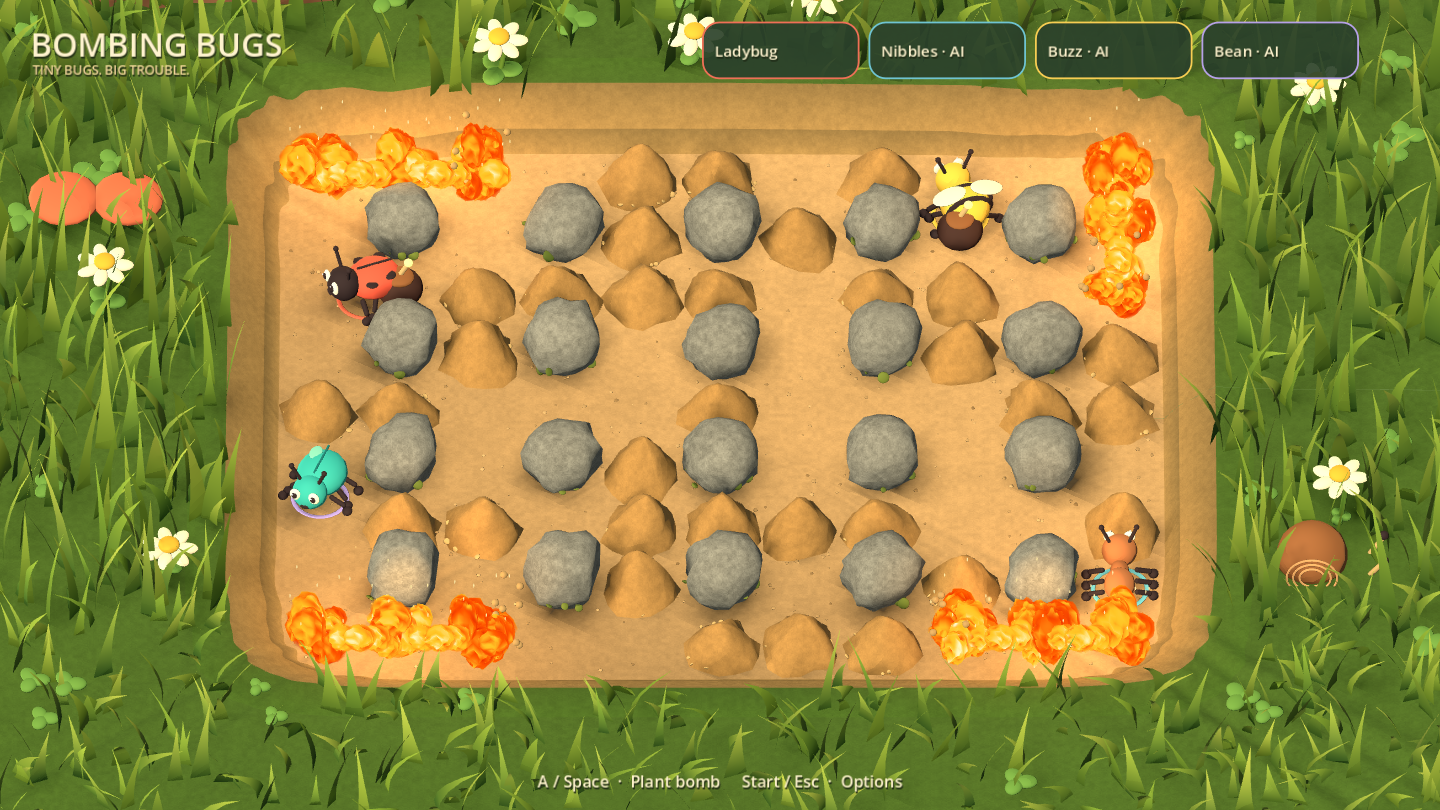
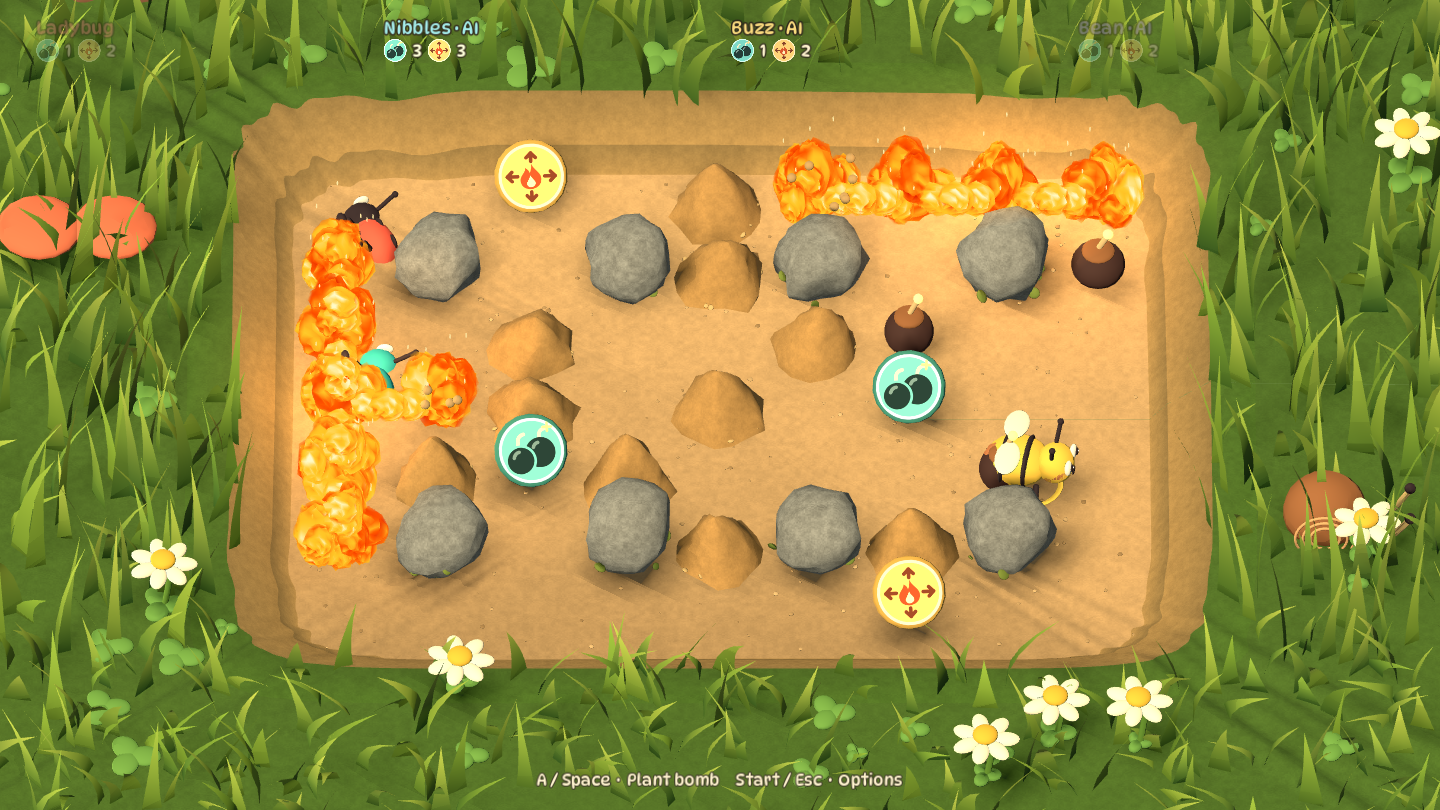
Bombing Bugs: varied gardens and a quieter HUD
Every round can now look different. Garden size follows the player count
(Auto: 11x9 up to 15x13, or pick Small/Medium/Large) and the camera,
sand pit, grass and onlookers scale with it. Two new generated layouts,
Scattered stones and Boulder field, mirror one quarter so every corner spawn
gets the same garden and are rejected unless fully connected; "Surprise me"
(the new default) picks any of the five each round, and the countdown names
it. Small Pebble islands opens its middle row instead of two columns.

The HUD is lighter: the game's name only appears on the start menu, and the
player info is bare outlined text in the player's colour, no cards. Store
clip takes pin --size=Medium so they still reproduce the published clip.

Claude-Session: https://claude.ai/code/session_01A6exjfnhezmQTZHuqiLmSE

diff --git a/bombing-bugs/tests/lifecycle.py b/bombing-bugs/tests/lifecycle.py
@@ -34,7 +34,7 @@ def main():
             assert hello["game"] == "bombing-bugs" and hello["token"] == "isolated-test"
             peer.send(type="welcome", party={})
             settings = peer.expect("declare_settings")["settings"]
-            assert {s["key"] for s in settings} == {"ai_players", "teams", "arena", "friendly_fire", "fuse", "speed", "crates", "pickups", "sound"}
+            assert {s["key"] for s in settings} == {"ai_players", "teams", "arena", "size", "friendly_fire", "fuse", "speed", "crates", "pickups", "sound"}
             peer.send(type="setting_changed", key="ai_players", value=0)
             session = "bugs-test-session"
             seats = [{"index":2,"controller":"pad-seven","occupant":{"kind":"local","player_id":"ada"}},

diff --git a/bombing-bugs/README.md b/bombing-bugs/README.md
@@ -34,6 +34,13 @@ remaining slots up to the requested count, without replacing human players.
 One human with AI set to zero is a practice arena. Options use D-pad/stick,
 A/B, or mouse; settings take effect on **Start a new round** or the next round.
 
+Gardens vary every round. Auto size picks from sizes that suit the player
+count (two players: 11×9 or 13×9; three: 13×11 or 15×9; four: 13×11, 15×11 or
+15×13) and the camera frames each size the same way. Scattered stones and
+Boulder field are generated per round, mirrored so every corner spawn sees the
+same garden, and always fully connected once the sand is gone. The countdown
+names the garden; the game's name only shows on the start menu.
+
 Teams pair seats 1+3 against 2+4. Friendly fire is optional; your own bombs
 always hurt. Eliminated bugs remain as little toppled bodies until next round.
 
@@ -53,7 +60,8 @@ standard host setting API; no game-specific LLM endpoint is necessary:
 | --- | --- | --- |
 | `ai_players` | 0–3, capped at four total players | Next round |
 | `teams` | Free-for-all, Teams | Next round |
-| `arena` | Clover garden, Seed crossroads, Pebble islands | Next round |
+| `arena` | Surprise me (default, a different garden each round), Clover garden, Seed crossroads, Pebble islands, Scattered stones, Boulder field | Next round |
+| `size` | Auto (default), Small 11×9, Medium 13×11, Large 15×13 | Next round |
 | `friendly_fire` | Boolean | Next round |
 | `fuse` | 15–40 tenths of a second | Next round |
 | `speed` | 20–50 tenths of a tile/second | Next round |

diff --git a/bombing-bugs/docs/gamenight-preview.md b/bombing-bugs/docs/gamenight-preview.md
@@ -15,7 +15,7 @@ GODOT=godot bombing-bugs/tools/capture_preview.sh /tmp/takes          # needs xv
 python3 bombing-bugs/tools/encode_preview.py /tmp/takes bombing-bugs/assets/gamenight
 ```
 
-`--seed=N` makes round 1 use seed N+71 (the scan uses the same), `--skip=S`
+`--seed=N` makes round 1 use seed N+71 (the scan uses the same), `--size=` picks the garden size (the takes use Medium), `--skip=S`
 lets the bots play S seconds unseen first. Godot 4.6.2 with llvmpipe renders
 the window at 1440×810; the encoder scales to 960×540. Encoding is bit-exact:
 the same takes give the same file.
